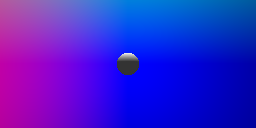
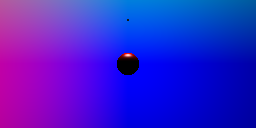
phong material implmented

Changed region(s): [[0.4375, 0.4062, 0.5625, 0.5938]]

diff --git a/Source/RayTracing/scene.py b/Source/RayTracing/scene.py
@@ -1,11 +1,23 @@
-from RayTracing.ray import Ray,Hit
-from RayTracing.instance import Instance
 import sys
-import glm
+
+from RayTracing.ray import Ray,Hit
+from RayTracing.instance import Instance, ObjectInstance, LightInstance
+from RayTracing.color import Color
 
 class Scene:
     def __init__(self, instances : list[Instance]) -> None:
         self.instances = instances
+        self.light_instances = []
+        self.object_instances = []
+        self.lights = []
+        
+        for instance in self.instances:
+            if type(instance) == LightInstance:
+                self.light_instances.append(instance)
+                self.lights.append(instance.light)
+            elif type(instance) == ObjectInstance:    
+                self.object_instances.append(instance)       
+                     
         
     def compute_intersection(self, ray) -> tuple[Instance, Hit]:
        
@@ -26,23 +38,39 @@ class Scene:
         
         return (hit_instance,hit)
     
-    def trace_ray(self,ray):
+    def trace_ray(self,ray) -> Color:
+        
+        color = Color(0,0,0)
         
         (hit_instance, hit) = self.compute_intersection(ray)
+                        
+        if hit_instance is not None: 
+            
+            if type(hit_instance) is LightInstance:
+                
+                light_instance : LightInstance = hit_instance                
+                r = hit.distance
+                intensity = light_instance.light.power / r**2
+                color =  Color(intensity, intensity, intensity)
+            
+            elif type(hit_instance) == ObjectInstance:
+                
+                object_instance : ObjectInstance = hit_instance
+                
+                color = object_instance.material.eval(self.lights, hit, ray.origin)      
         
-        if hit_instance is not None:
-            color_intensity = max(0.2, glm.dot(hit.normal,glm.vec3(0,1,0)) )        
-            return (color_intensity,color_intensity,color_intensity)
-        else:
-            return self.get_background_color(ray)
+        else: # Hit nothing
+            color = self.get_background_color(ray)
+        
+        return color
         
         
-    def get_background_color(self, ray : Ray) -> tuple[float,float,float]:
+    def get_background_color(self, ray : Ray) -> Color:
         r = ray.direction.x
         g = ray.direction.y
         b = ray.direction.z        
         
-        return (r,g,b)
+        return Color(r,g,b)
     
     
     

diff --git a/Source/RayTracing/material.py b/Source/RayTracing/material.py
@@ -1,8 +1,15 @@
+import glm
+
 from RayTracing.color import Color
+from RayTracing.ray import Hit
+from RayTracing.light import Light
 
 class Material:
     
-    def _init_():
+    def _init_(self):
+        pass
+    
+    def eval(self, lights: list[Light] , hit : Hit , ray_origin : glm.vec3) -> Color:
         pass
 
 class PhongMaterial(Material):
@@ -11,3 +18,16 @@ class PhongMaterial(Material):
         self.diffuse = diffuse
         self.specular = specular
         self.shininess = shininess
+        
+    def eval(self, lights: list[Light] , hit: Hit, ray_origin: glm.vec3) -> Color:
+        
+        color = Color(0,0,0)
+        
+        v = glm.normalize(ray_origin - hit.position)
+        
+        for light in lights:
+            (radiance, light_direction) = light.get_radiance(hit.position)
+            color += self.diffuse * max(0.0, glm.dot(hit.normal, light_direction)) * radiance
+            reflection_direction = glm.reflect(-light_direction, hit.normal)
+            color += self.specular * max(0.0, (glm.dot(v, reflection_direction))) ** self.shininess * radiance
+        return color

diff --git a/Source/RayTracing/render.py b/Source/RayTracing/render.py
@@ -1,11 +1,16 @@
 from RayTracing.film import Film
 from RayTracing.camera import Camera
 from RayTracing.scene import Scene
+from RayTracing.color import Color
+
+from timeit import default_timer as timer
 
 def render(film : Film, camera : Camera, scene : Scene):
     print("Starting render...")
-    print(f"film resolution is: {film.height} X {film.width}")
+    print(f"film resolution is: {film.width} X {film.height}")
     print(f"Scene has {len(scene.instances)} instances.")
+    
+    start_time = timer()
     
     for i in range(film.width):
         for j in range(film.height):
@@ -15,6 +20,11 @@ def render(film : Film, camera : Camera, scene : Scene):
             ray = camera.generate_ray(x,y)
             #print(ray.direction)
             color = scene.trace_ray(ray)
+            color = (color.r, color.g, color.b)
             film.set_pixel_value(i,j,color)
             #print(color)
+            
+    end_time = timer()
+    
+    print(f"Render time: {end_time - start_time} seconds." )
     

diff --git a/Source/main.py b/Source/main.py
@@ -1,7 +1,10 @@
+from RayTracing.color import Color
+from RayTracing.light import Light, PointLight
+from RayTracing.material import Material, PhongMaterial
 from RayTracing.film import Film
 from RayTracing.camera import Camera
 from RayTracing.scene import Scene
-from RayTracing.instance import Instance
+from RayTracing.instance import Instance, LightInstance, ObjectInstance
 from RayTracing.shapes import Shape,Sphere,Point
 from RayTracing.render import render
 
@@ -11,7 +14,8 @@ def CreateScene():
     
     instances = []
     
-    instances.append( Instance( glm.vec3(0,0,10), Sphere(1) ) )
+    instances.append( ObjectInstance( glm.vec3(0,0,10), Sphere(1), PhongMaterial(Color(1,1,1), Color(1,0,0), Color(1,1,1), 10 ) ) )
+    instances.append( LightInstance( glm.vec3(0,4,10), Sphere(0.1), PointLight(10) ) )
     #instances.append( Instance( glm.vec3(0,0,10), Point() ) )
 
     scene = Scene(instances)

diff --git a/Source/RayTracing/light.py b/Source/RayTracing/light.py
@@ -4,10 +4,20 @@ class Light:
         
     def __init__(self, power : float) -> None:
         self.power = power
+        self.position = glm.vec3(0,0,0)
         
+    def get_radiance(self, position: glm ) -> tuple[float,glm.vec3]:
+        pass        
 
 
-class pointLight(Light):
+class PointLight(Light):
     
     def __init__(self, power : float) -> None:
         super().__init__(power)
+        
+    def get_radiance(self, position: glm ) -> tuple[float,glm.vec3]:
+        light_direction = glm.normalize(self.position - position)
+        radius = glm.length(self.position - position)
+        radiance = self.power / radius**2
+        
+        return radiance, light_direction

diff --git a/Source/RayTracing/color.py b/Source/RayTracing/color.py
@@ -4,3 +4,21 @@ class Color:
         self.r = r
         self.g = g
         self.b = b
+        
+    def __add__(self, other):
+        return Color(self.r + other.r, self.g + other.g, self.b + other.b)  
+    
+    def __mul__(self, other):
+        return Color(self.r * other, self.g * other, self.b * other)
+    
+    def __truediv__(self, other):
+        return Color(self.r / other, self.g / other, self.b / other)
+    
+    def __str__(self):
+        return f"Color({self.r}, {self.g}, {self.b})"
+    
+    def __repr__(self):
+        return f"Color({self.r}, {self.g}, {self.b})"
+    
+    def to_tuple(self):
+        return (self.r, self.g, self.b)

diff --git a/Source/RayTracing/instance.py b/Source/RayTracing/instance.py
@@ -18,8 +18,7 @@ class Instance:
             return hit
         else:
             return None
-            
-    
+  
 
 class ObjectInstance(Instance):
     
@@ -33,3 +32,4 @@ class LightInstance(Instance):
     def __init__(self, position : glm.vec3, shape : Shape, light : Light) -> None:
         super().__init__(position, shape)
         self.light = light
+        light.position = position
